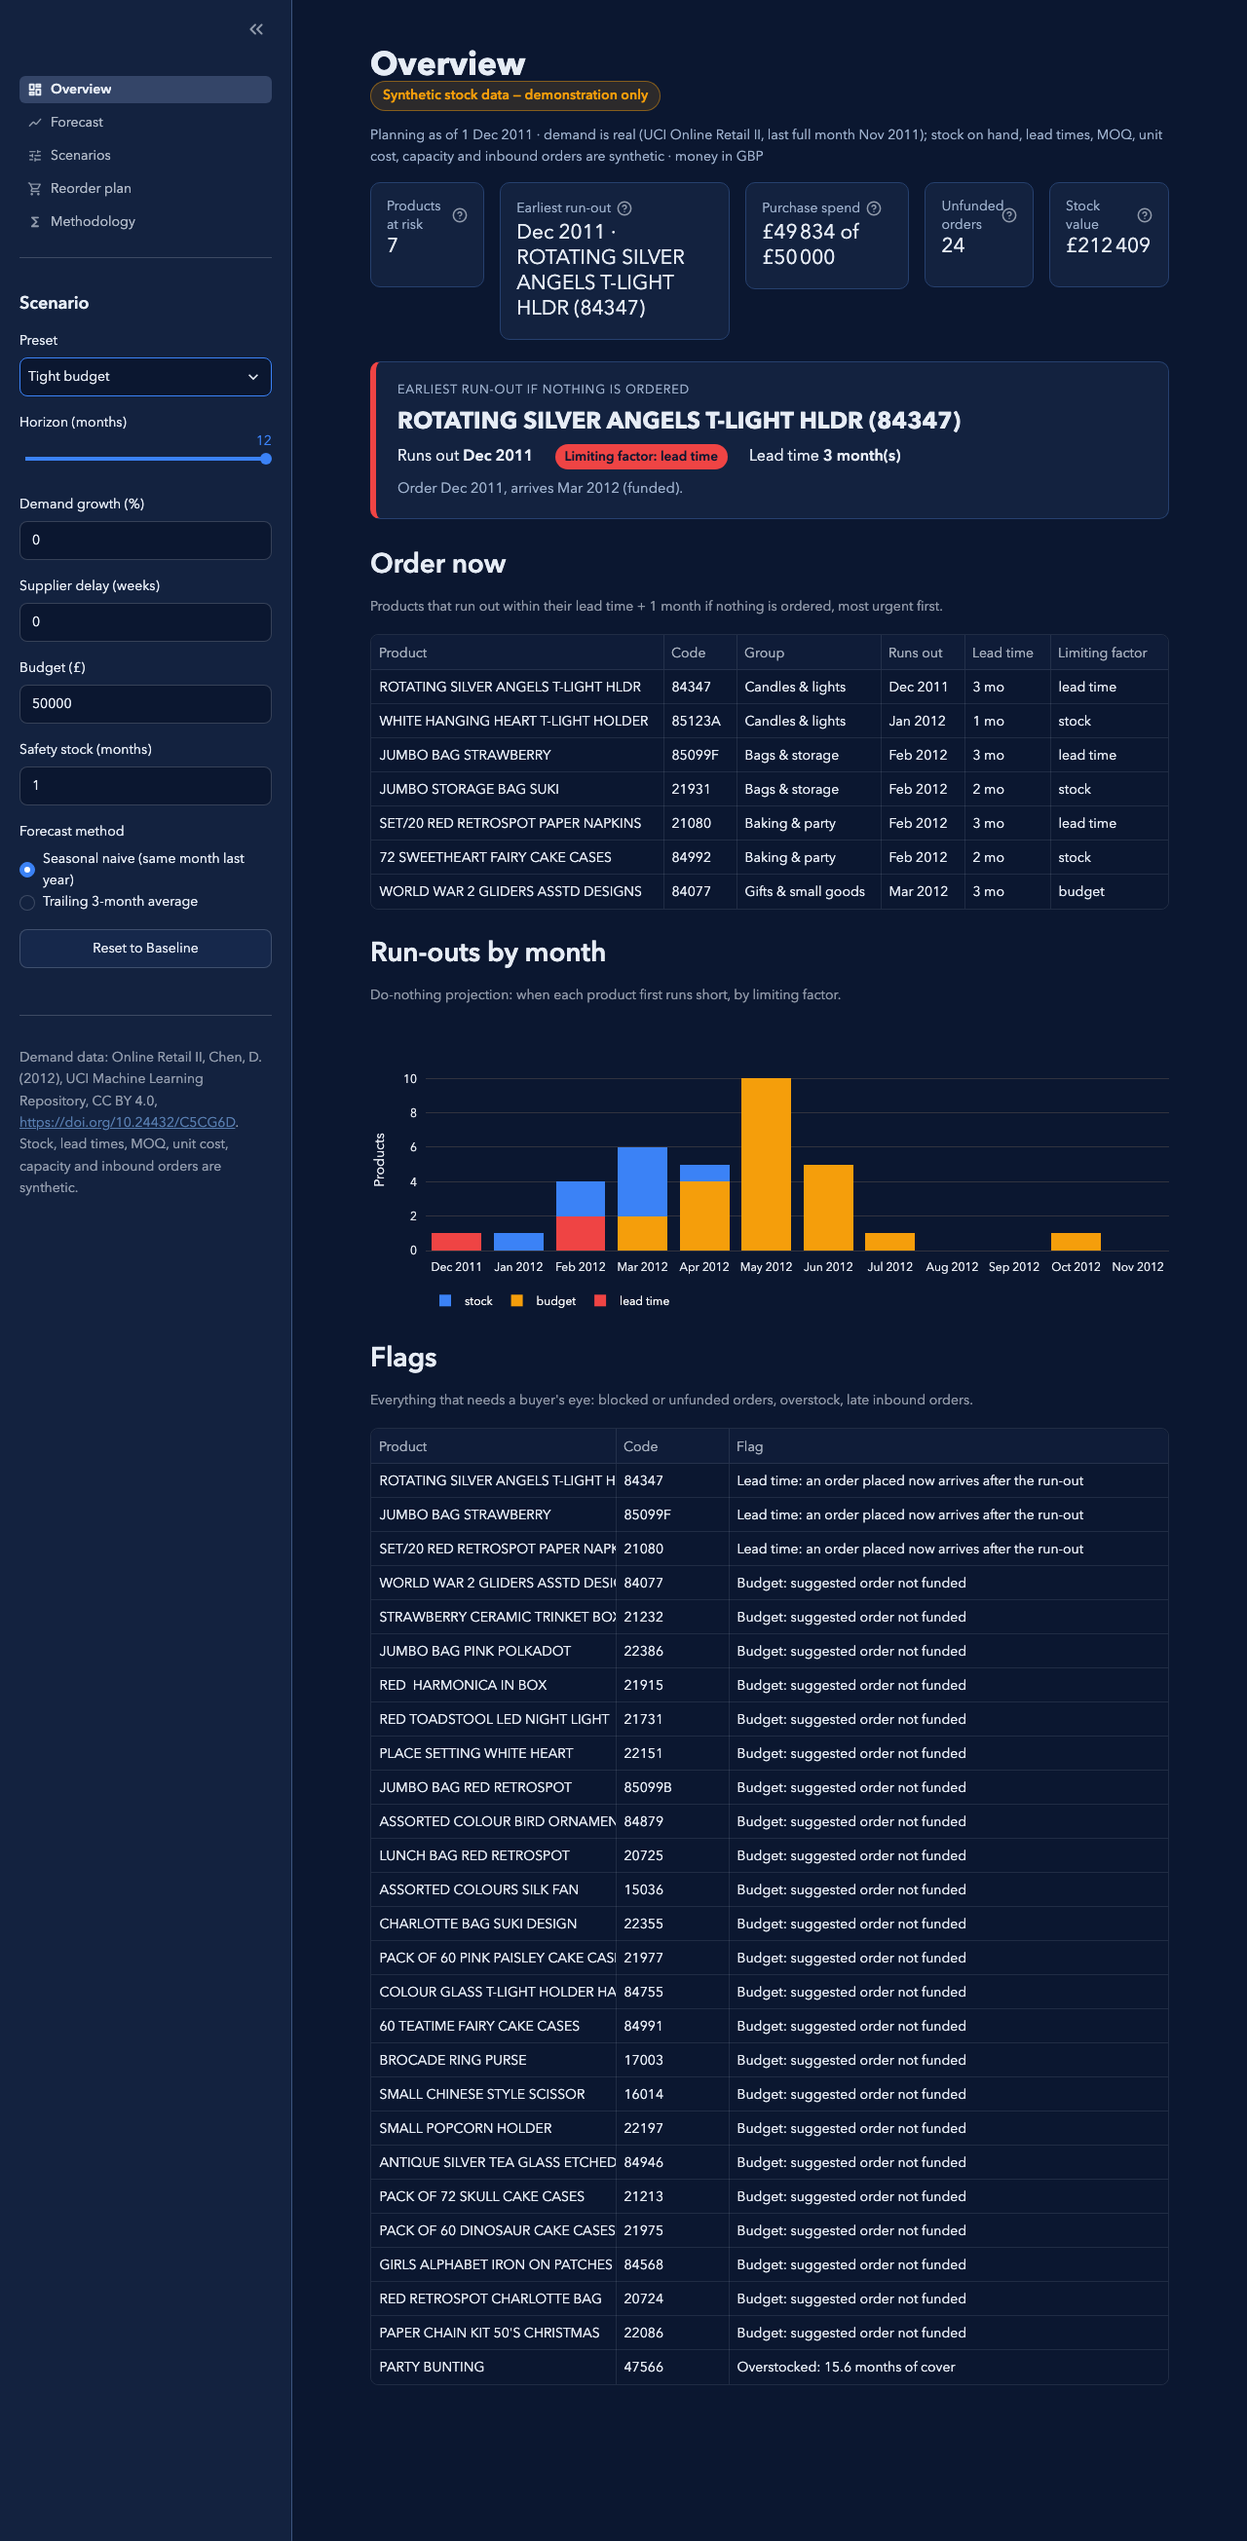
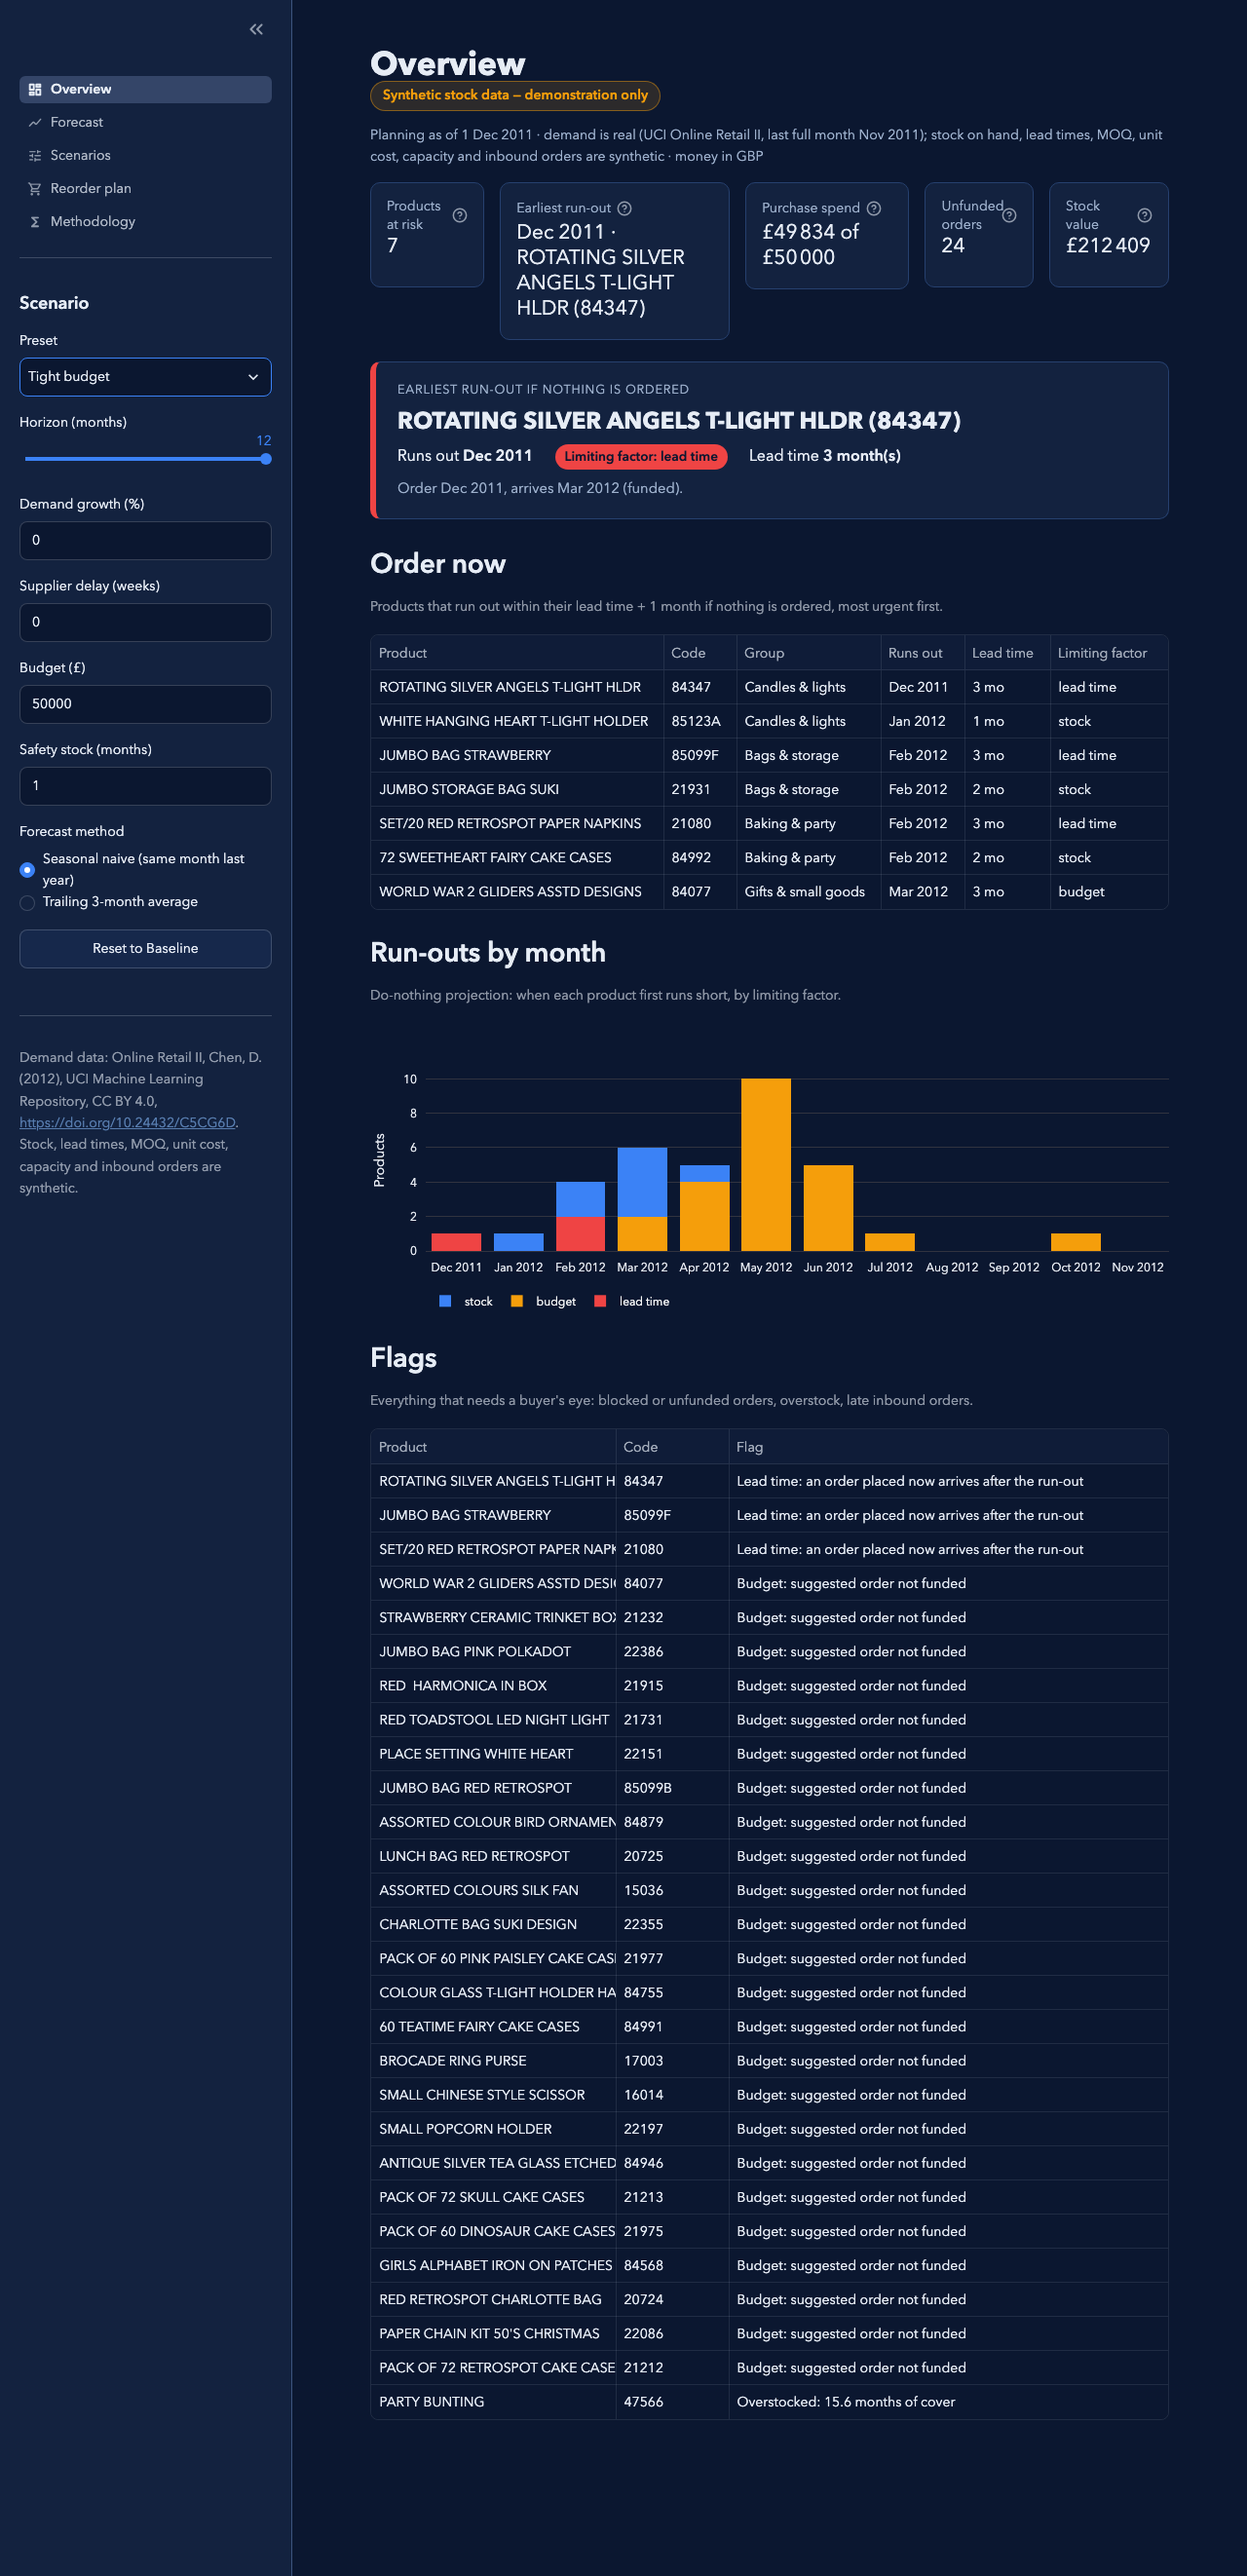
fix: PART-B review round 1 — unfunded flags, description-first in scenarios, funded-only plan line, lead incl. delay, Forecast pick kept, bounded caches, log on cache miss, edited-preset hint, U+202F copy, README wording

diff --git a/assets/style.css b/assets/style.css
@@ -12,7 +12,7 @@ html, body, [class*="css"], .stMarkdown, .stCaption { font-family: var(--font); 
   min-height: 108px;
 }
 [data-testid="stMetricLabel"] { color: var(--muted); }
-[data-testid="stMetricValue"] { font-size: 1.45rem; white-space: normal; line-height: 1.25; }
+[data-testid="stMetricValue"] { line-height: 1.25; }
 
 /* Number inputs are typed only (owner decision, DEC-17). */
 [data-testid="stNumberInputStepUp"] { display: none; }
@@ -32,8 +32,6 @@ html, body, [class*="css"], .stMarkdown, .stCaption { font-family: var(--font); 
 .runout-hero .facts b { color: var(--text); }
 .runout-hero .reason { color: var(--muted); margin-top: 8px; font-size: 0.92rem; }
 .pill { display: inline-block; padding: 2px 10px; border-radius: 999px; font-size: 0.85rem; font-weight: 600; color: var(--bg); }
-
-.notice { color: var(--muted); font-size: 0.86rem; }
 
 [data-testid="stMetricLabel"] *, [data-testid="stMetricValue"] * {
   white-space: normal !important;

diff --git a/app.py b/app.py
@@ -1,5 +1,7 @@
 """Inventory run-out planner: entry file with the shared sidebar, notices and KPI strip (DEC-14, DEC-15)."""
 
+import os
+
 import streamlit as st
 from inventory_runout_planner.data import DataError
 from inventory_runout_planner.fmt import gbp, month, number
@@ -7,12 +9,11 @@ from inventory_runout_planner.models import Scenario, scenario_errors
 from inventory_runout_planner.presets import ATTRIBUTION, PRESETS
 from inventory_runout_planner.ui import theme
 from inventory_runout_planner.ui.state import (
-    data_dir,
+    DEFAULT_DATA_DIR,
     load_data,
     product_label,
     run_scenario,
 )
-from loguru import logger
 
 st.set_page_config(
     page_title="Inventory run-out planner", page_icon="📦", layout="wide"
@@ -42,6 +43,10 @@ def on_reset() -> None:
 
 if "preset" not in st.session_state:
     on_reset()
+if "product" in st.session_state:
+    st.session_state["product"] = st.session_state[
+        "product"
+    ]  # keep the Forecast pick across pages
 
 navigation = st.navigation(
     [
@@ -80,6 +85,12 @@ with st.sidebar:
         key="method",
         format_func=METHOD_LABELS.__getitem__,
     )
+    if {key: st.session_state[key] for key in INPUT_KEYS} != PRESETS[
+        st.session_state["preset"]
+    ].model_dump():
+        st.caption(
+            f"Edited: the inputs no longer match the {st.session_state['preset']} preset. Use Reset or pick another preset."
+        )
     st.button("Reset to Baseline", key="reset", on_click=on_reset, width="stretch")
     st.divider()
     st.caption(ATTRIBUTION)
@@ -92,7 +103,7 @@ st.markdown(
     unsafe_allow_html=True,
 )
 
-directory = data_dir()
+directory = os.environ.get("RUNOUT_DATA_DIR", str(DEFAULT_DATA_DIR))
 try:
     data = load_data(directory)
 except DataError as e:
@@ -108,12 +119,6 @@ if errors:
 
 scenario = Scenario.model_validate(raw)
 result = run_scenario(scenario, directory)
-logger.info(
-    "Scenario run: {}",
-    st.session_state["preset"]
-    if scenario == PRESETS[st.session_state["preset"]]
-    else "custom",
-)
 st.session_state["data"] = data
 st.session_state["result"] = result
 st.session_state["data_dir"] = directory

diff --git a/app_pages/scenarios.py b/app_pages/scenarios.py
@@ -5,12 +5,12 @@ from inventory_runout_planner.fmt import gbp, month, number
 from inventory_runout_planner.models import ScenarioResult
 from inventory_runout_planner.presets import PRESETS
 from inventory_runout_planner.ui import theme
-from inventory_runout_planner.ui.state import run_scenario
+from inventory_runout_planner.ui.state import product_label, run_scenario
 
 result: ScenarioResult = st.session_state["result"]
 directory: str = st.session_state["data_dir"]
 LEVERS = {
-    "Baseline": "Today's plan: no growth, suppliers on time, £100 000 budget, 1 month safety stock.",
+    "Baseline": "Today's plan: no growth, suppliers on time, £100 000 budget, 1 month safety stock.",
     "Peak season +25%": "Demand 25 % above last year in every month.",
     "Supplier delay +3 weeks": "Every supplier and every open inbound order arrives 3 weeks later.",
     "Tight budget": "Half the purchase budget.",
@@ -47,6 +47,7 @@ st.dataframe(
 st.subheader("Presets side by side")
 st.markdown("\n".join(f"- **{name}:** {lever}" for name, lever in LEVERS.items()))
 runs = {name: run_scenario(preset, directory) for name, preset in PRESETS.items()}
+descriptions = {p.stock_code: p.description for p in result.products}
 rows = []
 for name, r in runs.items():
     k = r.kpis
@@ -54,8 +55,8 @@ for name, r in runs.items():
         {
             "Preset": name,
             "Products at risk": number(k.products_at_risk),
-            "Earliest run-out": f"{month(k.earliest_runout_month)} · {k.earliest_runout_code}"
-            if k.earliest_runout_month
+            "Earliest run-out": f"{month(k.earliest_runout_month)} · {product_label(descriptions[k.earliest_runout_code], k.earliest_runout_code)}"
+            if k.earliest_runout_month and k.earliest_runout_code
             else "None",
             "Funded": gbp(k.funded_spend_gbp),
             "Suggested": gbp(k.suggested_spend_gbp),

diff --git a/app_pages/methodology.py b/app_pages/methodology.py
@@ -47,7 +47,7 @@ st.markdown(
 
 st.subheader("Hand-calculated test cases")
 st.caption(
-    "Toy products, 60 units of demand every month, horizon 6 months, budget £1 000, safety 1 month, lead 4 weeks, MOQ 50, capacity 400, unit cost £2.00 unless stated. Each row is an automated acceptance test."
+    "Toy products, 60 units of demand every month, horizon 6 months, budget £1 000, safety 1 month, lead 4 weeks, MOQ 50, capacity 400, unit cost £2.00 unless stated. Each row is an automated acceptance test."
 )
 st.dataframe(
     pd.DataFrame(
@@ -70,7 +70,7 @@ st.dataframe(
             [
                 "AC-10",
                 "3 products, budget £650",
-                "Ranks 1–3; £400 funded, £480 skipped (only £250 left), £200 funded → £600.00 funded of £1 080.00",
+                "Ranks 1–3; £400 funded, £480 skipped (only £250 left), £200 funded → £600.00 funded of £1 080.00",
             ],
             ["AC-11", "Budget £300", "£400 order not funded → limiting factor budget"],
             [
@@ -85,8 +85,8 @@ st.dataframe(
             ],
             [
                 "AC-14",
-                "1 000 in stock, 12 months",
-                "No run-out, no order; 1 000 / 60 = 16.7 months of cover → Overstocked",
+                "1 000 in stock, 12 months",
+                "No run-out, no order; 1 000 / 60 = 16.7 months of cover → Overstocked",
             ],
         ],
         columns=["Test", "Setup", "Expected result"],

diff --git a/app_pages/forecast.py b/app_pages/forecast.py
@@ -22,7 +22,7 @@ inbound = (
     else "none"
 )
 st.markdown(
-    f"Stock on hand **{number(product.stock_on_hand)}** · lead time **{product.lead_time_weeks} weeks** · "
+    f"Stock on hand **{number(product.stock_on_hand)}** · lead time **{product.lead_time_weeks} weeks + delay {result.scenario.delay_weeks} weeks = {p.lead_months} month(s)** · "
     f"MOQ **{number(product.moq)}** · capacity **{number(product.capacity)}** · "
     f"unit cost **{gbp(product.unit_cost, pence=True)}** · inbound order **{inbound}**"
 )
@@ -52,12 +52,13 @@ figure.add_scatter(
     name="Stock, do nothing",
     line={"color": theme.RED},
 )
-figure.add_scatter(
-    x=forecast_x,
-    y=[r.closing for r in p.plan_months],
-    name="Stock, with next order",
-    line={"color": theme.GREEN},
-)
+if p.order and p.order.funded:
+    figure.add_scatter(
+        x=forecast_x,
+        y=[r.closing for r in p.plan_months],
+        name="Stock, with next order (funded)",
+        line={"color": theme.GREEN},
+    )
 if p.runout_month:
     figure.add_vline(x=f"{p.runout_month}-01", line={"color": theme.RED, "dash": "dot"})
 figure.update_layout(
@@ -65,7 +66,7 @@ figure.update_layout(
     height=420,
     yaxis_title="Units",
     xaxis={"dtick": "M3", "tickformat": "%b %Y"},
-    title=f"{p.description} ({p.stock_code}) · monthly units",
+    title=f"{product_label(p.description, p.stock_code)} · monthly units",
 )
 st.plotly_chart(figure, width="stretch")
 

diff --git a/src/inventory_runout_planner/ui/state.py b/src/inventory_runout_planner/ui/state.py
@@ -1,27 +1,26 @@
-import os
 from pathlib import Path
 
 import streamlit as st
 from inventory_runout_planner.data import load
 from inventory_runout_planner.models import PlannerData, Scenario, ScenarioResult
 from inventory_runout_planner.planner import run
+from loguru import logger
 
 DEFAULT_DATA_DIR = Path(__file__).resolve().parents[3] / "data"
 
 
-def data_dir() -> str:
-    return os.environ.get("RUNOUT_DATA_DIR", str(DEFAULT_DATA_DIR))
-
-
-@st.cache_data(show_spinner=False)
+@st.cache_data(show_spinner=False, max_entries=8)
 def load_data(directory: str) -> PlannerData:
     return load(Path(directory))
 
 
-@st.cache_data(show_spinner=False)
-def run_scenario(
-    scenario: Scenario, directory: str = str(DEFAULT_DATA_DIR)
-) -> ScenarioResult:
+@st.cache_data(show_spinner=False, max_entries=64)
+def run_scenario(scenario: Scenario, directory: str) -> ScenarioResult:
+    logger.info(
+        "Scenario run: horizon {} months, budget £{:,.0f}",
+        scenario.horizon_months,
+        scenario.budget_gbp,
+    )
     return run(load_data(directory), scenario)
 
 

diff --git a/app_pages/reorder_plan.py b/app_pages/reorder_plan.py
@@ -5,6 +5,7 @@ from inventory_runout_planner.exports import tables
 from inventory_runout_planner.fmt import gbp, month, number
 from inventory_runout_planner.models import PlannerData, ScenarioResult
 from inventory_runout_planner.ui import theme
+from inventory_runout_planner.ui.state import product_label
 
 result: ScenarioResult = st.session_state["result"]
 data: PlannerData = st.session_state["data"]
@@ -94,7 +95,7 @@ st.dataframe(
 with st.expander("Why each order: the numbers behind every line"):
     for line in result.plan:
         st.markdown(
-            f"**{line.rank}. {line.description} ({line.stock_code})** — {line.reason}"
+            f"**{line.rank}. {product_label(line.description, line.stock_code)}** — {line.reason}"
         )
 
 st.subheader("Exports")

diff --git a/app_pages/overview.py b/app_pages/overview.py
@@ -108,7 +108,6 @@ st.caption(
 )
 factor_flags = {
     "lead time": "Lead time: an order placed now arrives after the run-out",
-    "budget": "Budget: suggested order not funded",
 }
 flag_rows = [
     {"Product": p.description, "Code": p.stock_code, "Flag": flag}
@@ -116,6 +115,7 @@ flag_rows = [
     for flag in (
         [factor_flags[p.limiting_factor]] if p.limiting_factor in factor_flags else []
     )
+    + (["Budget: suggested order not funded"] if p.order and not p.order.funded else [])
     + p.flags
 ]
 st.dataframe(

diff --git a/README.md b/README.md
@@ -22,12 +22,12 @@ The sidebar holds the scenario: horizon (6–12 months), demand growth, supplier
 
 | | Baseline | Peak season +25% | Supplier delay +3 weeks | Tight budget (£50 000) | Efficiency (½ month safety) |
 | --- | --- | --- | --- | --- | --- |
-| Products to order now | 7 | 12 | 14 | 7 | 7 |
-| Earliest run-out | Dec 2011 · Rotating silver angels t-light holder (lead time) | Dec 2011 · Jumbo bag red retrospot (lead time) | Dec 2011 · Rotating silver angels (lead time) | Dec 2011 · Rotating silver angels (lead time) | Dec 2011 · Rotating silver angels (lead time) |
+| Products at risk (run out within lead time + 1 month: order now) | 7 | 12 | 14 | 7 | 7 |
+| Earliest run-out | Dec 2011 · ROTATING SILVER ANGELS T-LIGHT HLDR (84347), lead time | Dec 2011 · JUMBO BAG RED RETROSPOT (85099B), lead time | Dec 2011 · ROTATING SILVER ANGELS T-LIGHT HLDR (84347), lead time | Dec 2011 · ROTATING SILVER ANGELS T-LIGHT HLDR (84347), lead time | Dec 2011 · ROTATING SILVER ANGELS T-LIGHT HLDR (84347), lead time |
 | Funded / suggested spend | £99 993 / £124 083 | £99 984 / £162 296 | £99 772 / £127 909 | £49 834 / £124 083 | £94 251 / £111 367 |
 | Unfunded orders | 5 | 14 | 8 | 24 | 1 |
 
-A +3-week supplier delay pushes the open purchase order for *Jumbo bag red retrospot* from January into February, so the product runs out in January. The table above is where a buyer would spot that.
+A +3-week supplier delay pushes the open purchase order for JUMBO BAG RED RETROSPOT (85099B) from January into February, so the product runs out in January. The table above is where a buyer would spot that.
 
 ![Reorder plan](docs/screenshots/1440-reorder-plan.png)
 
@@ -46,7 +46,7 @@ Full detail on the Methodology page and in [`specs/inventory-runout-planner.md`]
 
 - 37 acceptance tests, one per acceptance criterion in the spec, including 8 hand-calculated cases (e.g. 100 units in stock, 60 a month, lead time 4 weeks → runs out Jan 2012, order 200 units = 180 + 60 − 40, £400.00).
 - 341 unit tests on the calculation core: property tests over random products and scenarios (stock is conserved, never negative, spend ≤ budget, ranking order), every input boundary, data-file error paths, exact half-up rounding.
-- Streamlit `AppTest` checks: every page renders, the KPI cards match across all 5 pages, presets move the KPIs, Reset restores them, bad input shows the error, missing data files show a clear message.
+- 73 more Streamlit `AppTest` checks on top of the acceptance tests: every page renders, the KPI cards match across all 5 pages, presets move the KPIs, Reset restores them, bad input shows the error, missing data files show a clear message.
 
 ## Run it yourself
 
